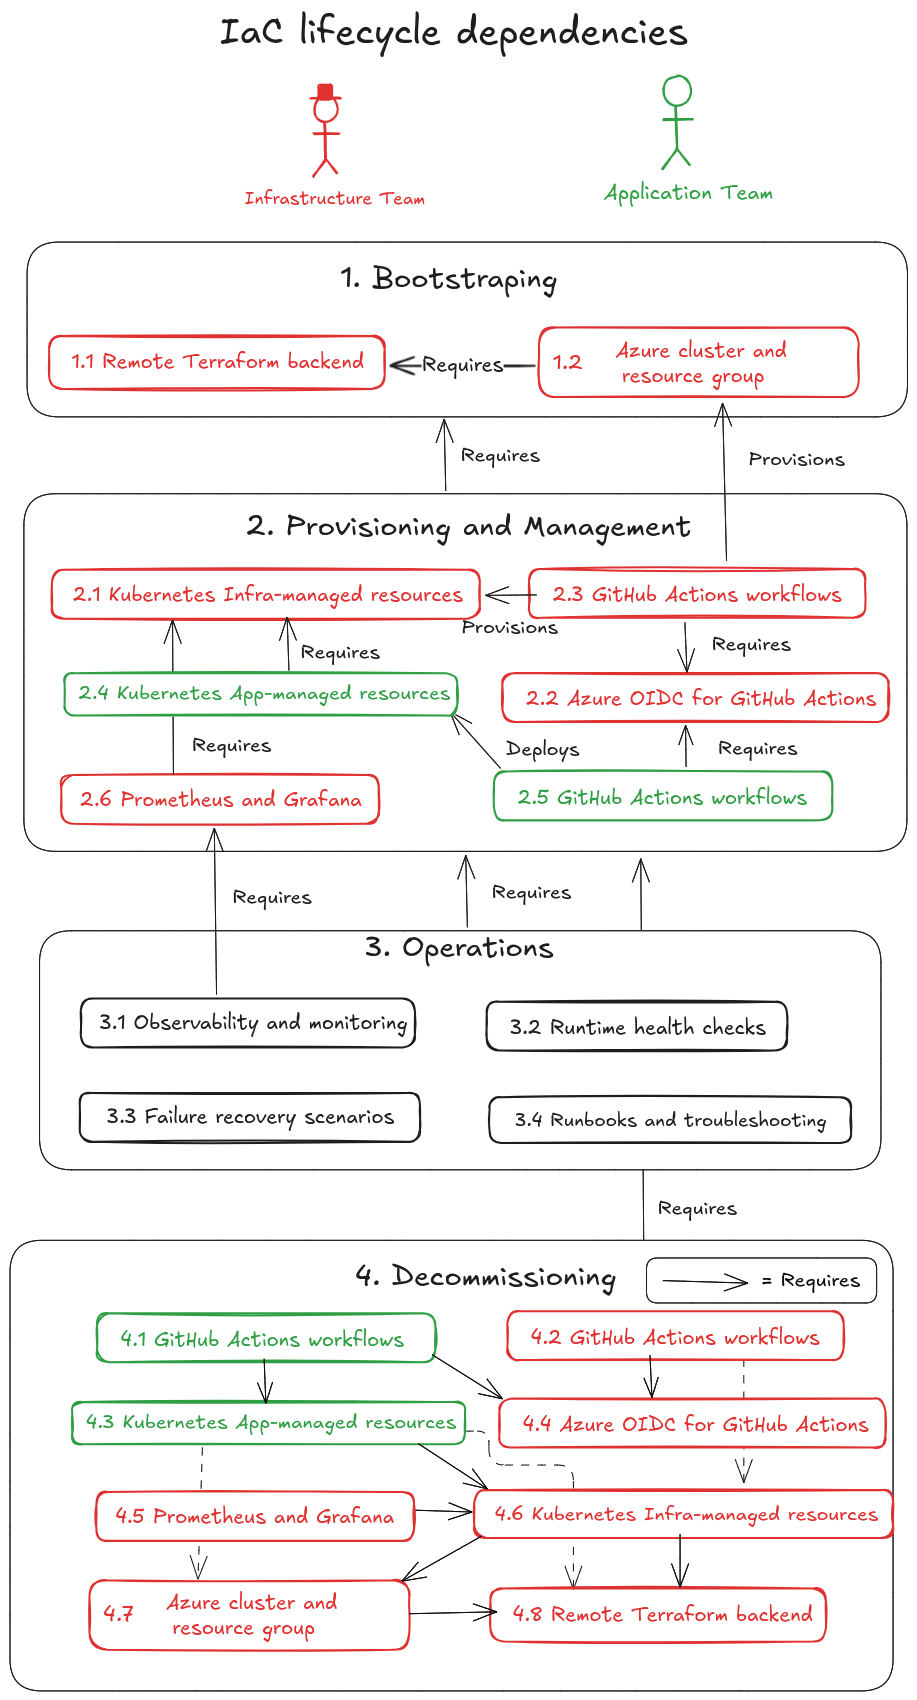
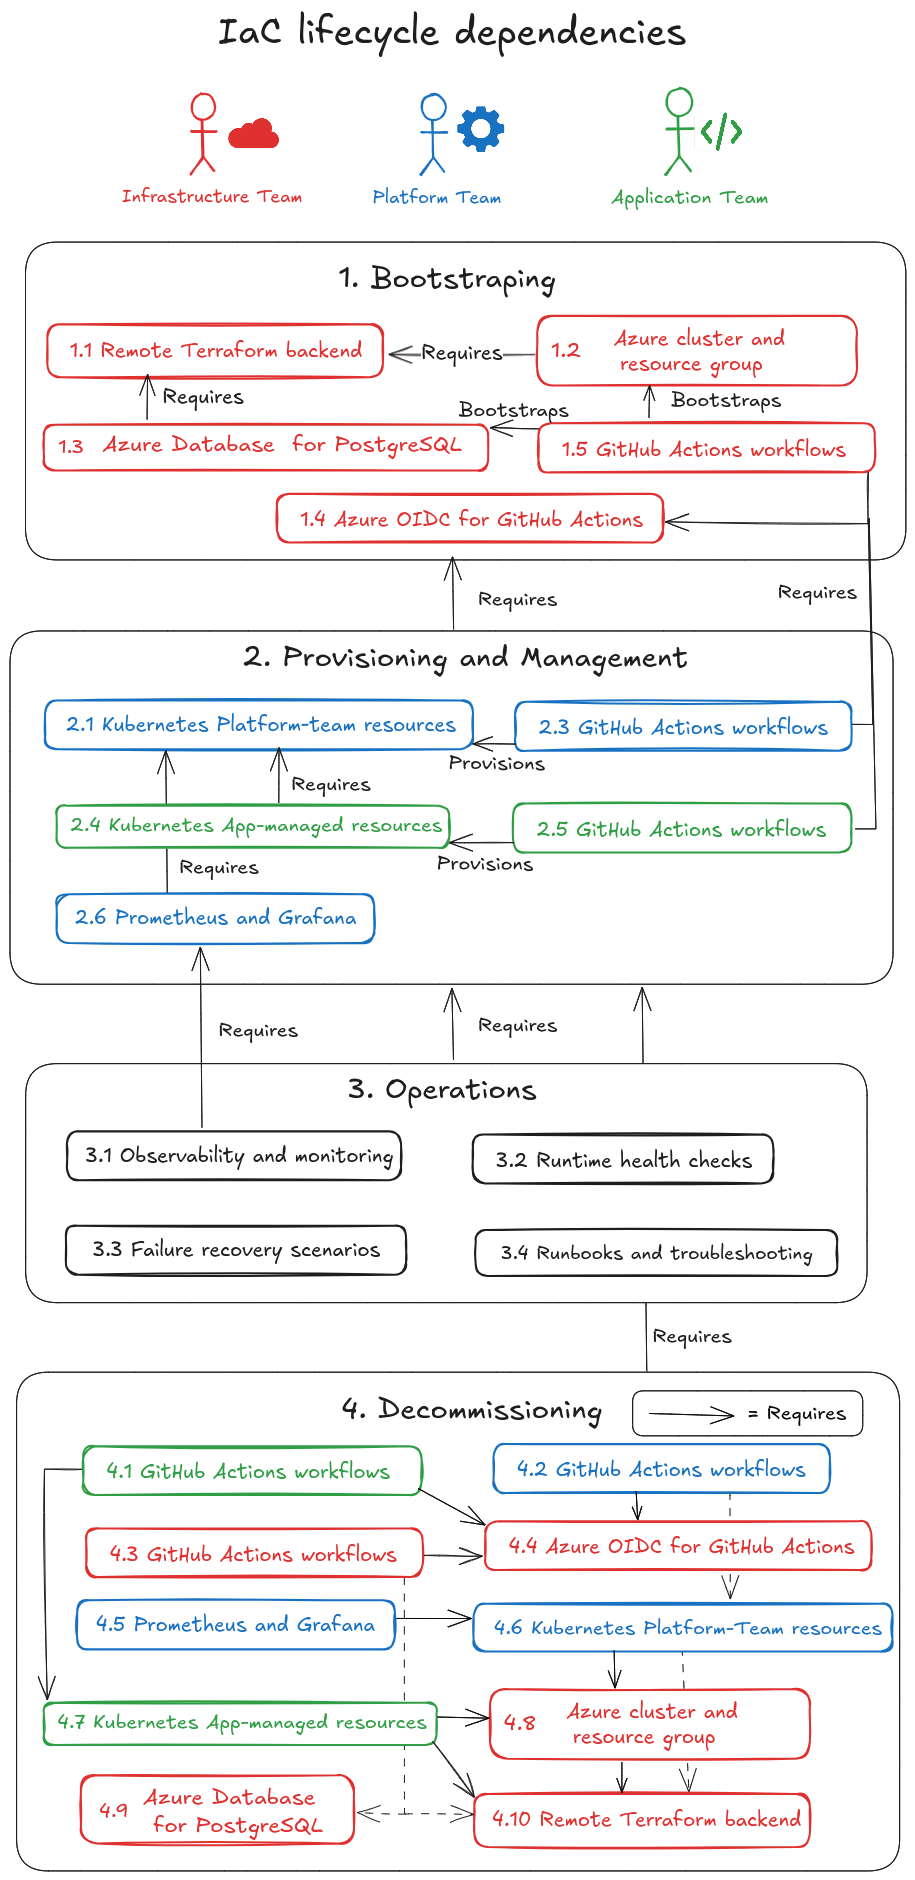
Split the infrastructure and the platform responsabilities in folders

diff --git a/docs/README.md b/docs/README.md
@@ -1,6 +1,6 @@
 # Stage 1 of 3 - Governed AKS delivery foundation for an internal payment review service
 
-"I built a Stage 1 Kubernetes delivery foundation on AKS for an internal payment review service. The goal was to reflect a realistic operating model where an infrastructure team bootstraps the resource group, AKS cluster, remote Terraform backend, and managed PostgreSQL foundation with Terraform, a platform team provisions the governed Kubernetes application boundary and shared observability services such as Prometheus and Grafana on top of that foundation, and an application team deploys a Spring Boot service through GitHub Actions, Docker, and Helm. I also designed the service around PostgreSQL persistence, health probes, observability, and failure scenarios so the repeatable operating model demonstrates delivery, observability, and troubleshooting instead of only deployment."
+"Kubernetes delivery foundation on AKS for an internal payment review service. The goal was to reflect a realistic operating model where an infrastructure team bootstraps the resource group, AKS cluster, remote Terraform backend, and managed PostgreSQL foundation with Terraform, a platform team provisions the governed Kubernetes application boundary and shared observability services such as Prometheus and Grafana on top of that foundation, and an application team deploys a Spring Boot service through GitHub Actions, Docker, and Helm. I also designed the service around PostgreSQL persistence, health probes, observability, and failure scenarios so the repeatable operating model demonstrates delivery, observability, and troubleshooting instead of only deployment."
 
 ## Detailed version:
 Production-oriented Kubernetes delivery foundation for highly regulated environments, where internal service delivery is often slowed by infrastructure setup, deployment standards, observability requirements, and operational risk.
@@ -14,6 +14,7 @@ This stage uses a clear 3-team model:
 - **Application team** builds and deploys a **Spring Boot** microservice through **GitHub Actions**, **Docker**, and **Helm**
 
 ![Intrastructure bootstrap path](/assets/infrastructure_bootstrap_path.png)
+![Platform provision path](/assets/platform_provision_path.png)
 ![Application delivery path](/assets/app_delivery_path.png)
 
 The operating model foundation delivers:
@@ -47,12 +48,12 @@ For root-level platform-case decisions, see [docs/adrs/README.md](/home/marvin/D
 
 ### 0.1 Setup the environment file
 
-The infrastructure scripts use a shared environment file at `infrastructure/.env`:
+The infrastructure and platform scripts use a shared environment file at the repository root: `.env`
 
 Create it from:
 
 ```bash
-cp infrastructure/.env.example infrastructure/.env
+cp .env.example .env
 ```
 
 Fill these values in the `.env`:
@@ -91,14 +92,14 @@ Provision the full platform locally:
 
 ```bash
 # Use the flag '-s' for silence
-./infrastructure/provision_platform.sh
+./bootstrap_infrastructure_and_provision_platform.sh
 ```
 
 See screen shoot example here: [provision_platform_screenshoots.md](infrastructure/docs/provision_platform_screenshoots.md)
 
 ### 0.3 Complete the environment values and GitHub configuration
 
-On the first run, `infrastructure/provision_platform.sh` bootstraps the remote Terraform backend and prints the backend values that must be copied into `infrastructure/.env`.
+On the first run, `bootstrap_infrastructure_and_provision_platform.sh` bootstraps the remote Terraform backend and prints the backend values that must be copied into `.env`.
 
 Update `.env` with these real backend values:
 
@@ -112,12 +113,12 @@ Confirm these GitHub repository variables are also set:
 
 | Repository variable | Required | Description |
 | --- | --- | --- |
-| `TF_BACKEND_RESOURCE_GROUP` | Yes | Mirrors `infrastructure/.env` so GitHub Actions can initialize the Terraform backend. |
-| `TF_BACKEND_STORAGE_ACCOUNT` | Yes | Mirrors `infrastructure/.env` so GitHub Actions can reach the backend storage account. |
-| `TF_BACKEND_CONTAINER` | Yes | Mirrors `infrastructure/.env` so GitHub Actions can select the Terraform state container. |
-| `RESOURCE_GROUP` | Yes | Resource group expected by the Azure and Kubernetes workflows. Should match `RESOURCE_GROUP` in `infrastructure/.env`. |
-| `AKS_LOCATION` | Yes | Azure region for the AKS layer. This should match `LOCATION` from `infrastructure/.env`. |
-| `AKS_CLUSTER_NAME` | Yes | AKS cluster name expected by the Azure and Kubernetes workflows. Should match `AKS_CLUSTER_NAME` in `infrastructure/.env`. |
+| `TF_BACKEND_RESOURCE_GROUP` | Yes | Mirrors `.env` so GitHub Actions can initialize the Terraform backend. |
+| `TF_BACKEND_STORAGE_ACCOUNT` | Yes | Mirrors `.env` so GitHub Actions can reach the backend storage account. |
+| `TF_BACKEND_CONTAINER` | Yes | Mirrors `.env` so GitHub Actions can select the Terraform state container. |
+| `RESOURCE_GROUP` | Yes | Resource group expected by the Azure and Kubernetes workflows. Should match `RESOURCE_GROUP` in `.env`. |
+| `AKS_LOCATION` | Yes | Azure region for the AKS layer. This should match `LOCATION` from `.env`. |
+| `AKS_CLUSTER_NAME` | Yes | AKS cluster name expected by the Azure and Kubernetes workflows. Should match `AKS_CLUSTER_NAME` in `.env`. |
 | `VM_SIZE` | Optional | Optional CI override for the AKS node size. If unset, workflows default to `Standard_D2as_v6`. |
 
 ![GitHub Actions repository variables](/assets/github_actions_variables.png)
@@ -128,7 +129,7 @@ Confirm these GitHub repository secrets are set:
 
 | Repository secret | Required | Description |
 | --- | --- | --- |
-| `AZURE_SUBSCRIPTION_ID` | Yes | Azure subscription used by GitHub Actions. Mirrors `SUBSCRIPTION_ID` from `infrastructure/.env`. |
+| `AZURE_SUBSCRIPTION_ID` | Yes | Azure subscription used by GitHub Actions. Mirrors `SUBSCRIPTION_ID` from `.env`. |
 | `AZURE_CLIENT_ID` | Yes | Application ID of the Azure Entra app created for GitHub OIDC. |
 | `AZURE_TENANT_ID` | Yes | Azure tenant ID used by `azure/login@v2` during GitHub Actions authentication. |
 
@@ -154,7 +155,7 @@ On `workflow_dispatch`, the Azure provisioning workflow can also run `terraform 
 
 You can destroy the platform with this command:
 ```bash
-./infrastructure/destroy_platform.sh
+./destroy_infrastructure_and_platform.sh
 ```
 
 It destroys:
@@ -404,8 +405,8 @@ kubernetes-platform-case/
 ├── infrastructure/
 │   ├── .env
 │   ├── .env.example
-│   ├── provision_platform.sh
-│   ├── destroy_platform.sh
+│   ├── bootstrap_infrastructure_and_provision_platform.sh
+│   ├── destroy_infrastructure_and_platform.sh
 │   ├── terraform-backend/
 │   │   ├── create_remote_backend.sh
 │   │   ├── destroy_remote_backend.sh
@@ -506,7 +507,7 @@ kubernetes-platform-case/
 | ------------------------------------- | -------------------------------------------------------------------- | ---------------- |
 | `infrastructure/terraform-backend`    | Creates the shared Azure Storage backend for Terraform state         | Infrastructure team |
 | `infrastructure/azure`                | Provisions Azure resources such as the resource group and AKS cluster| Infrastructure team |
-| `infrastructure/kubernetes-resources` | Bootstraps namespace, service account, RBAC, and baseline config     | Platform team    |
+| `platform/kubernetes-resources` | Bootstraps namespace, service account, RBAC, and baseline config     | Platform team    |
 | `application/`                        | Builds, packages, and deploys the Spring Boot service                | Application team |
 
 

diff --git a/infrastructure/azure/docs/OIDC.md b/infrastructure/azure/docs/OIDC.md
@@ -16,10 +16,10 @@ At the end of the process, the script prints the GitHub repository secrets that 
 From the repository root:
 
 ```bash
-cp infrastructure/.env.example infrastructure/.env
+cp .env.example .env
 ```
 
-Fill `infrastructure/.env` with at least these values:
+Fill `.env` at the repository root with at least these values:
 
 ```conf
 REPO_OWNER="<your-github-org-or-user>"
@@ -56,7 +56,7 @@ Run the helper from the repository root:
 The script will:
 
 1. verify Azure login
-2. load `infrastructure/.env`
+2. load `.env`
 3. check whether the Entra application already exists
 4. create the Entra application if needed
 5. create the service principal if needed
@@ -86,7 +86,7 @@ The federated credential is rendered from:
 
 [github-oidc-credential.template.json](/home/marvin/Documents/dev/kubernetes/infrastructure/azure/oidc/github-oidc-credential.template.json)
 
-The script replaces these placeholders using `infrastructure/.env`:
+The script replaces these placeholders using `.env` from the repository root:
 
 - `<REPO_OWNER>`
 - `<REPO_NAME>`
@@ -97,8 +97,8 @@ That means the resulting federated credential is scoped to the configured reposi
 ## Example First-Time Flow
 
 ```bash
-cp infrastructure/.env.example infrastructure/.env
-# edit infrastructure/.env
+cp .env.example .env
+# edit .env
 az login
 az account set --subscription "<YOUR_SUBSCRIPTION_NAME_OR_ID>"
 ./infrastructure/azure/oidc/create_az_oidc.sh

diff --git a/infrastructure/docs/README.md b/infrastructure/docs/README.md
@@ -37,10 +37,10 @@ az provider register --namespace Microsoft.Network
 
 #### Shared environment file
 ```bash
-cp infrastructure/.env.example infrastructure/.env
+cp .env.example .env
 ```
 
-Fill `infrastructure/.env` before running the infrastructure scripts.
+Fill the repository-root `.env` before running the infrastructure scripts.
 
 #### Bootstrap the Terraform backend to ensure constant synchronization of the states between each local, bootstrap and GitHub Actions configuration state file
 
@@ -126,13 +126,13 @@ terraform apply
 Initialize and validate the Kubernetes resources Terraform files:
 ```bash
 # From the root directory
-cd infrastructure/kubernetes-resources/terraform
+cd platform/kubernetes-resources/terraform
 
 terraform init \
 -backend-config="resource_group_name=<tf-backend-rg>" \
 -backend-config="storage_account_name=<tf-backend-storage-account>" \
 -backend-config="container_name=tfstate" \
--backend-config="key=kubernetes-resources/terraform.tfstate" \
+-backend-config="key=platform/kubernetes-resources/terraform.tfstate" \
 -backend-config="use_azuread_auth=true"
 
 terraform validate

diff --git a/platform/kubernetes-resources/docs/README.md b/platform/kubernetes-resources/docs/README.md
@@ -36,7 +36,7 @@ logic stays under `scripts/`.
 
 ## Local Terraform usage
 ```bash
-cp infrastructure/.env.example infrastructure/.env
+cp .env.example .env
 
 export EXPECTED_SUBSCRIPTION_ID="<your-subscription-id>"
 export EXPECTED_RESOURCE_GROUP="rg-stage1-aks"
@@ -46,14 +46,14 @@ export EXPECTED_AKS_CLUSTER_NAME="aks-stage1-platform"
 # export RESOURCE_GROUP="rg-stage1-aks"
 # export AKS_CLUSTER_NAME="aks-stage1-platform"
 
-./infrastructure/kubernetes-resources/scripts/validate-cluster-access.sh
+./platform/kubernetes-resources/scripts/validate-cluster-access.sh
 
-cd infrastructure/kubernetes-resources/terraform
+cd platform/kubernetes-resources/terraform
 terraform init \
   -backend-config="resource_group_name=<tf-backend-rg>" \
   -backend-config="storage_account_name=<tf-backend-storage-account>" \
   -backend-config="container_name=<tf-backend-container>" \
-  -backend-config="key=kubernetes-resources/terraform.tfstate" \
+  -backend-config="key=platform/kubernetes-resources/terraform.tfstate" \
   -backend-config="use_azuread_auth=true"
 terraform validate
 terraform plan

diff --git a/infrastructure/terraform-backend/docs/README.md b/infrastructure/terraform-backend/docs/README.md
@@ -38,13 +38,13 @@ az storage container show \
 ```
 
 ## 3. Fill backend values
-Now your `infrastructure/.env` values become real:
+Now your root `.env` values become real:
 ```conf
 TF_BACKEND_RESOURCE_GROUP="rg-stage1-tfstate"
 TF_BACKEND_STORAGE_ACCOUNT="<real-storage-account-name>"
 TF_BACKEND_CONTAINER="tfstate"
 ```
-Source your shared env file with `set -a; source infrastructure/.env; set +a`
+Source your shared env file with `set -a; source .env; set +a`
 
 ## 4. Test Azure infrastructure stack against remote backend
 Optional `export TF_VAR_subscription_id="<your-subscription-id>"`
@@ -77,4 +77,4 @@ The wrapper scripts stay at the layer root:
 - `infrastructure/terraform-backend/create_remote_backend.sh`
 - `infrastructure/terraform-backend/destroy_remote_backend.sh`
 
-They load `infrastructure/.env` and run Terraform from `infrastructure/terraform-backend/terraform`.
+They load `.env` from the repository root and run Terraform from `infrastructure/terraform-backend/terraform`.

diff --git a/docs/adrs/ADR-002-separate-infrastructure-and-platform-terraform-responsibilities.md b/docs/adrs/ADR-002-separate-infrastructure-and-platform-terraform-responsibilities.md
@@ -19,7 +19,7 @@ Earlier wording treated these as one generic Terraform domain. That was inaccura
 Terraform responsibilities are split by layer:
 
 - `infrastructure/terraform-backend` and `infrastructure/azure` belong to the **Infrastructure team**
-- `infrastructure/kubernetes-resources` belongs to the **Platform team**
+- `platform/kubernetes-resources` belongs to the **Platform team**
 
 The platform layer is intentionally modeled as a consumer of prepared infrastructure rather than the creator of the raw cloud estate.
 

diff --git a/infrastructure/azure/docs/README.md b/infrastructure/azure/docs/README.md
@@ -25,10 +25,10 @@ These resources provide the base environment on which the Kubernetes bootstrap l
 From the repository root:
 
 ```bash
-cp infrastructure/.env.example infrastructure/.env
+cp .env.example .env
 ```
 
-Fill `infrastructure/.env` before using the local scripts.
+Fill the repository-root `.env` before using the local scripts.
 
 ```bash
 cd infrastructure/azure/terraform
